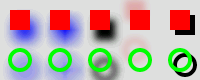
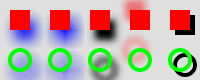
Fixes shadow colors with alpha value smaller that one.  Results were too transparent. code review: codereview.appspot.com/4267052 skia bug: 170
git-svn-id: https://skia.googlecode.com/svn/trunk@924 2bbb7eff-a529-9590-31e7-b0007b416f81

Changed region(s): [[0.6, 0.475, 0.75, 0.775], [0.6, 0.0, 0.75, 0.275]]

diff --git a/src/effects/SkBlurDrawLooper.cpp b/src/effects/SkBlurDrawLooper.cpp
@@ -31,8 +31,11 @@ SkBlurDrawLooper::SkBlurDrawLooper(SkScalar radius, SkScalar dx, SkScalar dy,
 
     if (flags & kOverrideColor_BlurFlag)
     {
+        // Set alpha to 1 for the override since transparency will already
+        // be baked into the blurred mask.
+        SkColor opaqueColor = SkColorSetA(color, 255);
         //The SrcIn xfer mode will multiply 'color' by the incoming alpha
-        fColorFilter = SkColorFilter::CreateModeFilter(color, SkXfermode::kSrcIn_Mode);
+        fColorFilter = SkColorFilter::CreateModeFilter(opaqueColor, SkXfermode::kSrcIn_Mode);
     }
     else
     {
